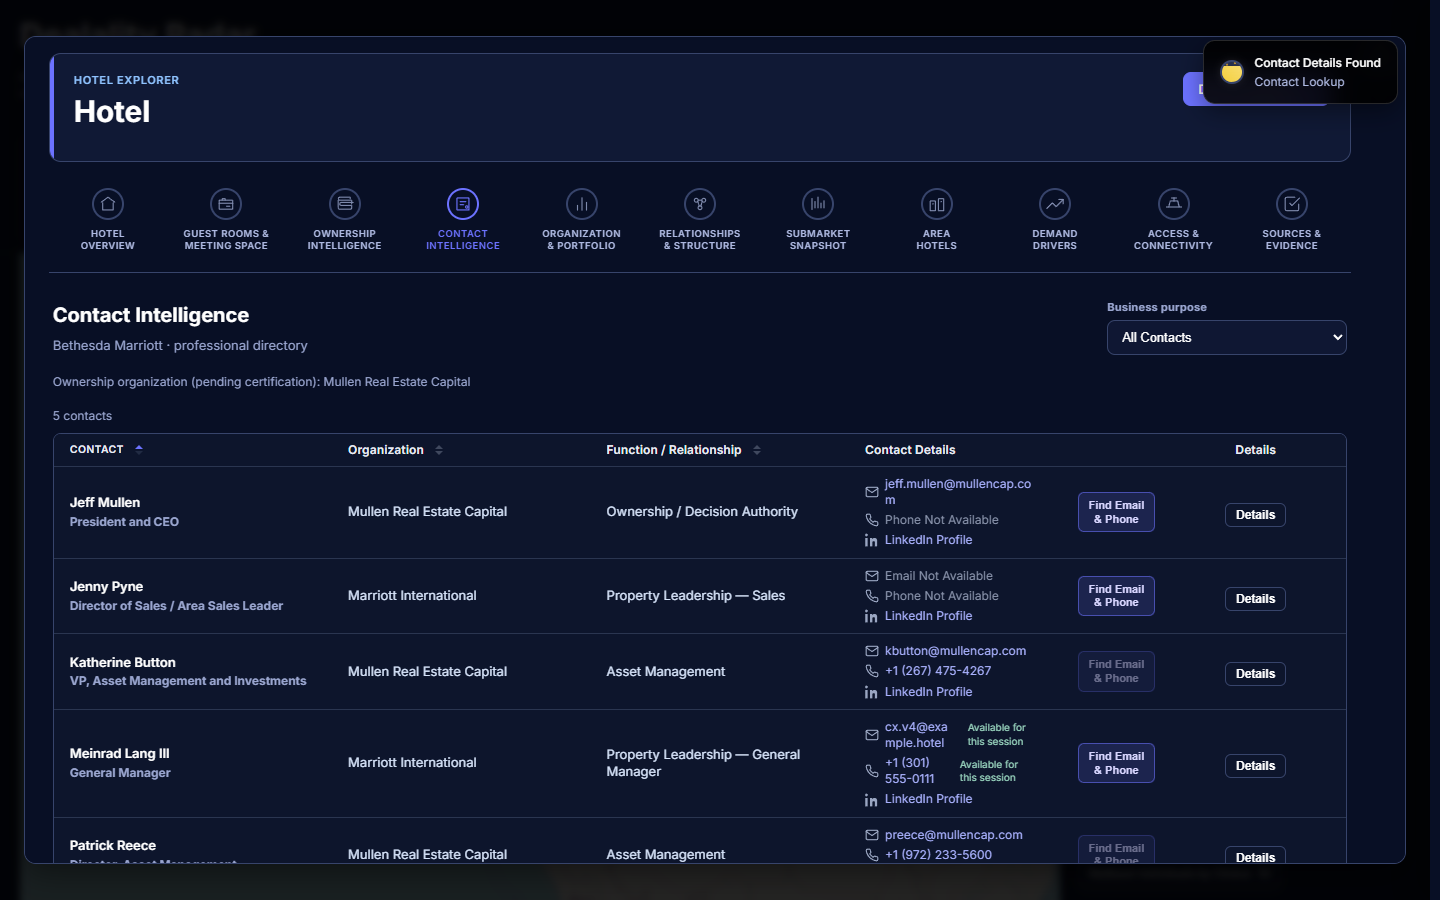
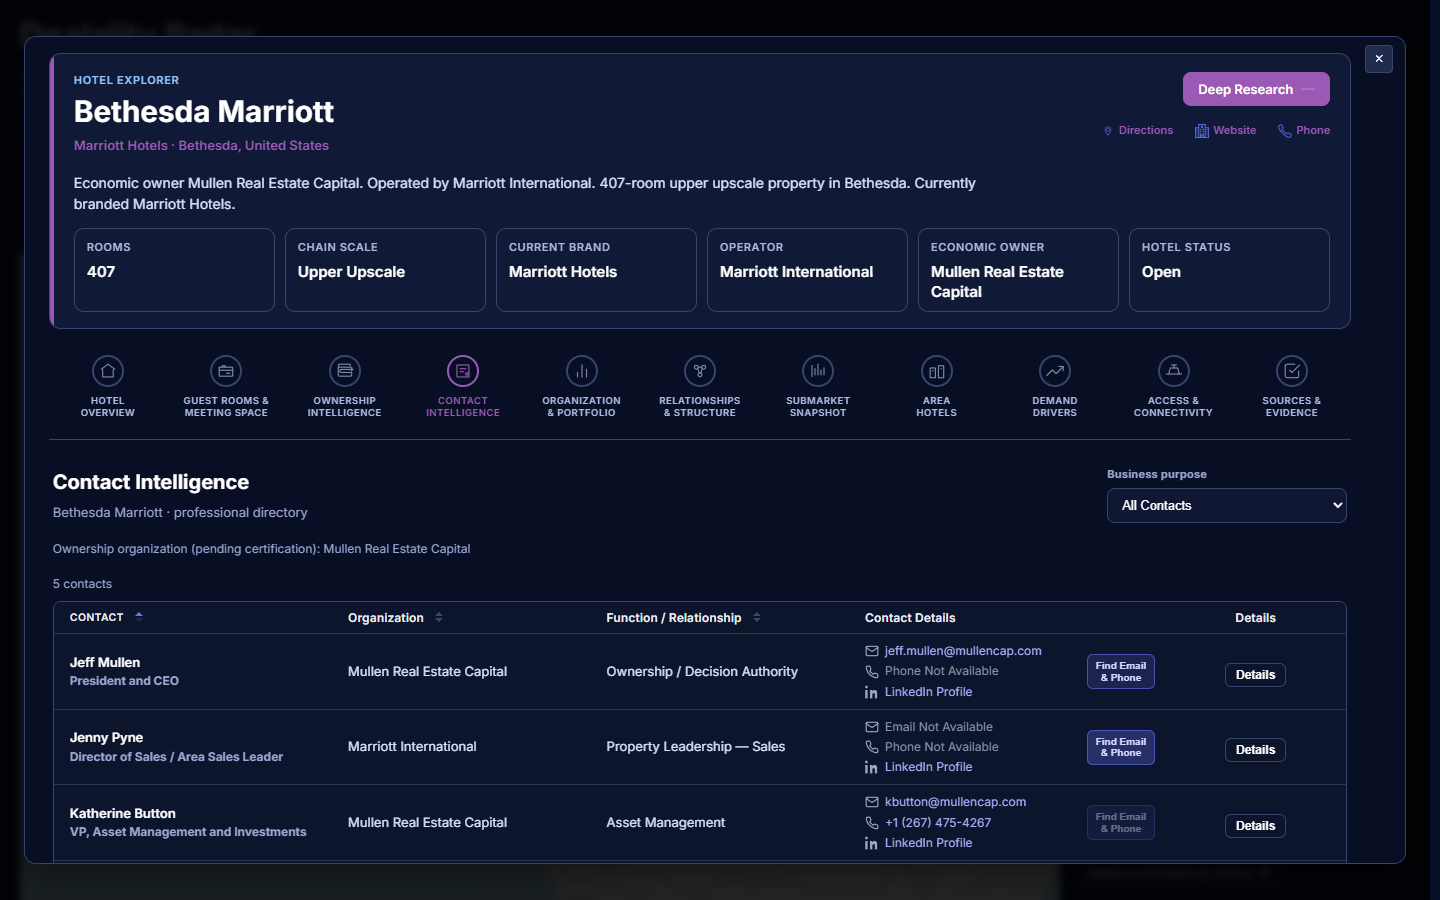
fix(he): Contact Intelligence V4.1 presentation cleanup
Widen Contact Details readability, reuse shared phone formatting, move session status under Find Email & Phone using GDI drawer note styling, and slightly shrink the enrich button without changing the one-click Surfe workflow.

diff --git a/public/js/hotel-contact-intelligence.js b/public/js/hotel-contact-intelligence.js
@@ -85,6 +85,7 @@
   var _inflightReveal = Object.create(null);
   /** Session-only Surfe results — never written into person channel arrays. */
   var _sessionSurfeByPerson = Object.create(null);
+  var _sessionSurfeHotelId = "";
 
   function esc(v) {
     return String(v == null ? "" : v)
@@ -115,8 +116,22 @@
     }
     var keepPlus = trimmed.charAt(0) === "+";
     var digits = trimmed.replace(/[^\d]/g, "");
+    var displayValue = trimmed;
+    // Lightweight NANP fallback when shared formatter script is unavailable.
+    if (digits.length === 11 && digits.charAt(0) === "1") {
+      displayValue =
+        "+1 (" +
+        digits.slice(1, 4) +
+        ") " +
+        digits.slice(4, 7) +
+        "-" +
+        digits.slice(7);
+    } else if (digits.length === 10) {
+      displayValue =
+        "(" + digits.slice(0, 3) + ") " + digits.slice(3, 6) + "-" + digits.slice(6);
+    }
     return {
-      displayValue: trimmed,
+      displayValue: displayValue,
       telHref: digits ? "tel:" + (keepPlus ? "+" : "") + digits : "",
       originalRaw: raw,
     };
@@ -675,7 +690,9 @@
     btn.setAttribute("data-enrich-label", FIND_LABEL);
   }
 
-  var SESSION_HINT = "Available for this session";
+  /** GDI drawer customer session-only note (under Find Email & Phone). */
+  var SESSION_NOTE =
+    "Results stay in this session only and are not saved to Dealality records.";
 
   function showCustomerToastFeedback(message) {
     showEnrichToast(message || "Contact Details Found");
@@ -797,12 +814,15 @@
     var meta = resolveEnrichMeta(p, capability);
     var li = linkedInUrl(p);
     var compact = opts.compact === true;
-    var disabled = !meta.enabled;
-    var title = meta.contextualDescription || meta.reason || "";
+    var sessionCached = Boolean(_sessionSurfeByPerson[p.personId || ""]);
+    var disabled = !meta.enabled || sessionCached;
+    var title = sessionCached
+      ? SESSION_NOTE
+      : meta.contextualDescription || meta.reason || "";
     var btnClass =
       "hci-btn hci-btn--enrich hci-btn--enrich-two-line" +
       (compact ? " hci-btn--enrich-compact" : "") +
-      (meta.dimmedComplete ? " hci-btn--enrich-dimmed" : "") +
+      (meta.dimmedComplete || sessionCached ? " hci-btn--enrich-dimmed" : "") +
       (disabled ? " is-disabled" : "");
     return (
       '<div class="hci-enrich' +
@@ -834,6 +854,7 @@
       (meta.needsPhone ? "1" : "0") +
       '" data-dimmed-complete="' +
       (meta.dimmedComplete ? "1" : "0") +
+      (sessionCached ? ' data-session-lookup="1"' : "") +
       '" title="' +
       esc(title) +
       '" aria-label="' +
@@ -912,20 +933,18 @@
           })
           .join("") +
         (session
-          ? '<div class="hci-channel-row hci-channel-row--session" data-surfe-session="1">' +
-            '<span class="hci-channel-label">' +
-            esc(SESSION_HINT) +
-            "</span> " +
+          ? '<div class="hci-channel-row hci-channel-row--session" data-surfe-session="1" data-persist="forbidden">' +
             (session.email
               ? '<a class="hci-action-link" href="mailto:' +
                 esc(session.email) +
-                '" title="' +
-                esc(SESSION_HINT) +
                 '">' +
                 esc(session.email) +
                 "</a> "
               : "") +
             (session.phone ? phoneAnchorHtml(session.phone) : "") +
+            '<p class="gdi-muted gdi-contact-cta-note">' +
+            esc(SESSION_NOTE) +
+            "</p>" +
             "</div>"
           : "") +
         "</div>";
@@ -1110,25 +1129,25 @@
       : sessionEmail
         ? '<a class="gdi-list-contact-link gdi-list-contact-link--session" href="mailto:' +
           esc(sessionEmail) +
-          '" data-surfe-session="1" data-persist="forbidden" title="' +
-          esc(SESSION_HINT) +
-          '">' +
+          '" data-surfe-session="1" data-persist="forbidden">' +
           esc(sessionEmail) +
-          '</a><span class="gdi-list-session-tag" title="' +
-          esc(SESSION_HINT) +
-          '">' +
-          esc(SESSION_HINT) +
-          "</span>"
+          "</a>"
         : '<span class="gdi-list-contact-missing">Email Not Available</span>';
     var phoneLine = phone
       ? phoneAnchorHtml(phone, "gdi-list-contact-link")
       : sessionPhone
-        ? phoneAnchorHtml(sessionPhone, "gdi-list-contact-link gdi-list-contact-link--session") +
-          '<span class="gdi-list-session-tag" data-surfe-session="1" data-persist="forbidden" title="' +
-          esc(SESSION_HINT) +
-          '">' +
-          esc(SESSION_HINT) +
-          "</span>"
+        ? (function () {
+            var html = phoneAnchorHtml(
+              sessionPhone,
+              "gdi-list-contact-link gdi-list-contact-link--session",
+            );
+            return html
+              ? html.replace(
+                  "<a ",
+                  '<a data-surfe-session="1" data-persist="forbidden" ',
+                )
+              : "";
+          })()
         : '<span class="gdi-list-contact-missing">Phone Not Available</span>';
     var linkedinLine = li
       ? '<a class="gdi-list-contact-link gdi-list-linkedin" href="' +
@@ -1165,11 +1184,18 @@
     var enrichBtn = renderEnrichAction(p, hotelId || "", capability || vmCapability, {
       compact: true,
     });
+    var hasSessionChannels = Boolean(sessionEmail || sessionPhone);
+    var sessionNoteHtml = hasSessionChannels
+      ? '<p class="gdi-muted gdi-contact-cta-note" data-hci-session-note="1" data-surfe-session="1" data-persist="forbidden">' +
+        esc(SESSION_NOTE) +
+        "</p>"
+      : "";
     return (
       '<div class="gdi-list-contact-details gdi-list-contact-details--with-action" data-hci-contact-details-cell="1">' +
       channelStack +
       '<div class="gdi-list-contact-action" data-hci-enrich-slot="1">' +
       enrichBtn +
+      sessionNoteHtml +
       '<div class="hci-enrich__result hci-enrich__result--cell" hidden></div>' +
       "</div></div>"
     );
@@ -1575,7 +1601,7 @@
           liveBtn.disabled = true;
           setEnrichButtonLabel(liveBtn, "idle");
           liveBtn.classList.add("hci-btn--enrich-dimmed");
-          liveBtn.setAttribute("title", SESSION_HINT);
+          liveBtn.setAttribute("title", SESSION_NOTE);
         }
       }
       if (liveSlot) {
@@ -1750,7 +1776,7 @@
               btn.disabled = true;
               setEnrichButtonLabel(btn, "idle");
               btn.classList.add("hci-btn--enrich-dimmed");
-              btn.setAttribute("title", SESSION_HINT);
+              btn.setAttribute("title", SESSION_NOTE);
             }
             return;
           }
@@ -2264,8 +2290,12 @@
       );
       return Promise.resolve();
     }
-    // Surfe session results must not survive hotel remount / reload.
-    _sessionSurfeByPerson = Object.create(null);
+    // Surfe session results must not survive hotel switches; keep them across
+    // soft remounts of the same hotel so the GDI session note stays visible.
+    if (_sessionSurfeHotelId && _sessionSurfeHotelId !== hotelId) {
+      _sessionSurfeByPerson = Object.create(null);
+    }
+    _sessionSurfeHotelId = hotelId;
     host.innerHTML = renderLoading();
     return Promise.all([loadViewModel(hotelId), loadEnrichmentCapability()])
       .then(function (pack) {

diff --git a/public/css/hotel-contact-intelligence.css b/public/css/hotel-contact-intelligence.css
@@ -923,8 +923,8 @@ a.hci-channel__value {
 }
 .hci-root .hci-directory-table--5col th:nth-child(4),
 .hci-root .hci-directory-table--5col td:nth-child(4) {
-  width: 34%;
-  min-width: 280px;
+  width: 38%;
+  min-width: 340px;
 }
 .hci-root .hci-directory-table--5col th:nth-child(5),
 .hci-root .hci-directory-table--5col td:nth-child(5) {
@@ -992,7 +992,7 @@ a.hci-channel__value {
   display: flex;
   flex-direction: column;
   gap: 4px;
-  min-width: 0;
+  min-width: 168px;
   flex: 1 1 auto;
   overflow: visible; /* keep full email/phone readable; table scrolls horizontally if needed */
 }
@@ -1003,12 +1003,26 @@ a.hci-channel__value {
   flex-direction: column;
   align-items: flex-end;
   justify-content: center;
-  gap: 6px;
-  min-width: 108px;
-  max-width: 128px;
+  gap: 4px;
+  min-width: 92px;
+  max-width: 118px;
   overflow: visible;
   visibility: visible;
   opacity: 1;
+}
+/* GDI drawer-parity session note — under Find Email & Phone, not inline in channel stack */
+.hci-root .gdi-list-contact-action .gdi-muted,
+.hci-root .gdi-muted {
+  color: var(--hci-muted, #aeb8d4);
+}
+.hci-root .gdi-list-contact-action .gdi-contact-cta-note {
+  font-size: 11px;
+  line-height: 1.3;
+  margin: 0;
+  max-width: 118px;
+  text-align: right;
+  white-space: normal;
+  color: var(--hci-muted, #aeb8d4);
 }
 .hci-root .gdi-list-contact-action .hci-enrich,
 .hci-root .gdi-list-contact-action .hci-btn--enrich {
@@ -1034,12 +1048,11 @@ a.hci-channel__value {
 .hci-root .gdi-list-contact-link {
   color: #aab2ff;
   text-decoration: none;
-  overflow-wrap: break-word;
+  overflow-wrap: normal;
   word-break: normal;
   white-space: nowrap;
-  white-space: normal;
   min-width: 0;
-  max-width: 100%;
+  max-width: none;
 }
 .hci-root .gdi-list-contact-link:hover {
   text-decoration: underline;
@@ -1048,12 +1061,9 @@ a.hci-channel__value {
 .hci-root .gdi-list-contact-missing {
   color: #8b95ad;
 }
+/* Legacy session tag — no longer used in Contact Details stack (note lives under button). */
 .hci-root .gdi-list-session-tag {
-  display: inline-block;
-  margin-left: 6px;
-  font-size: 10px;
-  color: #9ad7c0;
-  white-space: nowrap;
+  display: none;
 }
 .hci-root .gdi-list-linkedin {
   display: inline-flex;
@@ -1066,20 +1076,20 @@ a.hci-channel__value {
 }
 .hci-root .hci-btn--enrich-two-line,
 .hci-root .hci-btn--enrich-compact {
-  padding: 6px 10px;
-  font-size: 11px;
-  line-height: 1.15;
+  padding: 5px 8px;
+  font-size: 10px;
+  line-height: 1.12;
   white-space: normal;
   border-radius: 6px;
-  max-width: 118px;
-  min-height: 36px;
+  max-width: 104px;
+  min-height: 32px;
   visibility: visible;
   display: inline-flex;
   flex-direction: column;
   align-items: center;
   justify-content: center;
   text-align: center;
-  gap: 1px;
+  gap: 0;
 }
 .hci-root .hci-enrich-btn__line {
   display: block;
@@ -1214,23 +1224,27 @@ a.hci-channel__value {
   }
 }
 
-/* CONTACT INTELLIGENCE V4 — readable session emails/phones (no vertical char wrap) */
+/* CONTACT INTELLIGENCE V4.1 — keep email/phone/LinkedIn on single readable lines */
 .hci-root .gdi-list-contact-channels,
 .hci-root [data-hci-channel-stack],
 .hci-channel-stack-readable-v4 {
-  min-width: 160px;
-  max-width: 100%;
+  min-width: 168px;
+  max-width: none;
 }
 .hci-root .gdi-list-contact-link,
-.hci-root .gdi-list-contact-line,
 .hci-root .hci-channel__value,
-.hci-root [data-hci-channel-stack] a,
-.hci-root [data-hci-channel-stack] .gdi-list-session-tag {
-  overflow-wrap: break-word;
+.hci-root [data-hci-channel-stack] a {
+  overflow-wrap: normal;
   word-break: normal;
-  white-space: normal;
+  white-space: nowrap;
   writing-mode: horizontal-tb;
-  max-width: 100%;
+  max-width: none;
+}
+.hci-root .gdi-list-contact-line {
+  overflow-wrap: normal;
+  word-break: normal;
+  white-space: nowrap;
+  writing-mode: horizontal-tb;
 }
 .hci-root .hci-directory-table--5col td:nth-child(4),
 .hci-root .hci-directory-table--5col td[data-col="contact-details"] {
